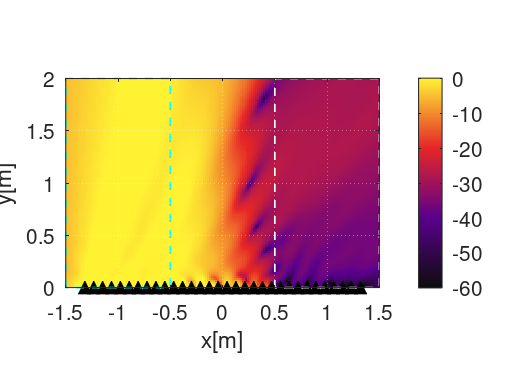
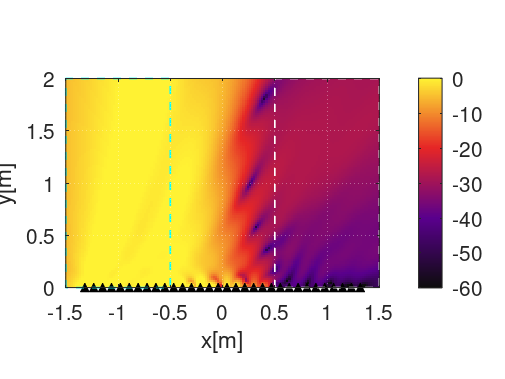
表示サイズ変更

Changed region(s): [[0.1485, 0.7256, 0.7426, 0.7836]]

diff --git a/pos_sp_mic.m b/pos_sp_mic.m
@@ -95,9 +95,9 @@ function [pos_sp, pos_mic, num_mic] = pos_sp_mic(num_sp, y_center, n_x, n_y, d1,
         figure % 新しいグラフウィンドウを開く
         
         % スピーカー位置を黒い「▲」でプロット
-        h1 = plot(pos_sp(:,1), pos_sp(:,2), '^k', 'MarkerFaceColor', 'k'); hold on;
+        h1 = plot(pos_sp(:,1), pos_sp(:,2), '^k', 'MarkerFaceColor', 'k' , 'MarkerSize', 4); hold on;
         % 制御点をサイズ10の「●」でプロット
-        h2 = scatter(pos_mic(:,1), pos_mic(:,2), 10, 'filled');
+        h2 = scatter(pos_mic(:,1), pos_mic(:,2), 4, 'filled');
         
         daspect([1 1 1])    % グラフの縦横比を 1:1 に固定
         xlim([-1.5,1.5 ])   % x軸の表示範囲を -1.5m 〜 1.5m に設定

diff --git a/spl_distribution.m b/spl_distribution.m
@@ -93,7 +93,7 @@ h1 = imagesc(x, y, P_matrix); hold on;
 axis xy; % imagesc特有の上下反転を直し、座標の向きを正常化する
 
 % スピーカー位置を黒い三角でプロット（scatter の引数互換性を避ける）
-h2 = plot(pos_sp(:,1), pos_sp(:,2), '^k', 'MarkerFaceColor', 'k'); hold on;
+h2 = plot(pos_sp(:,1), pos_sp(:,2), '^k', 'MarkerFaceColor', 'k' , 'MarkerSize', 4); hold on;
 % ③ エリアの点線を見やすい色（シアンと白）、細い破線（LineWidth: 0.8）に変更
 h4 = plot(con_bz(:,1), con_bz(:,2), 'c--', 'LineWidth', 0.8); hold on;
 h5 = plot(con_dz(:,1), con_dz(:,2), 'w--', 'LineWidth', 0.8); hold off;

diff --git a/plot_spl_profile.m b/plot_spl_profile.m
@@ -10,7 +10,7 @@ actual_y = y(y_idx); % 実際に抽出されるy座標
 
 % 指定ラインの音圧レベル(SPL)を P_matrix から抽出
 spl_profile = P_matrix(y_idx, :);
-fprintf("★今からプロファイル作成を開始します★\n");
+fprintf("今からプロファイル作成を開始します\n");
 
 % 新しいグラフウィンドウを開く
 figure;
